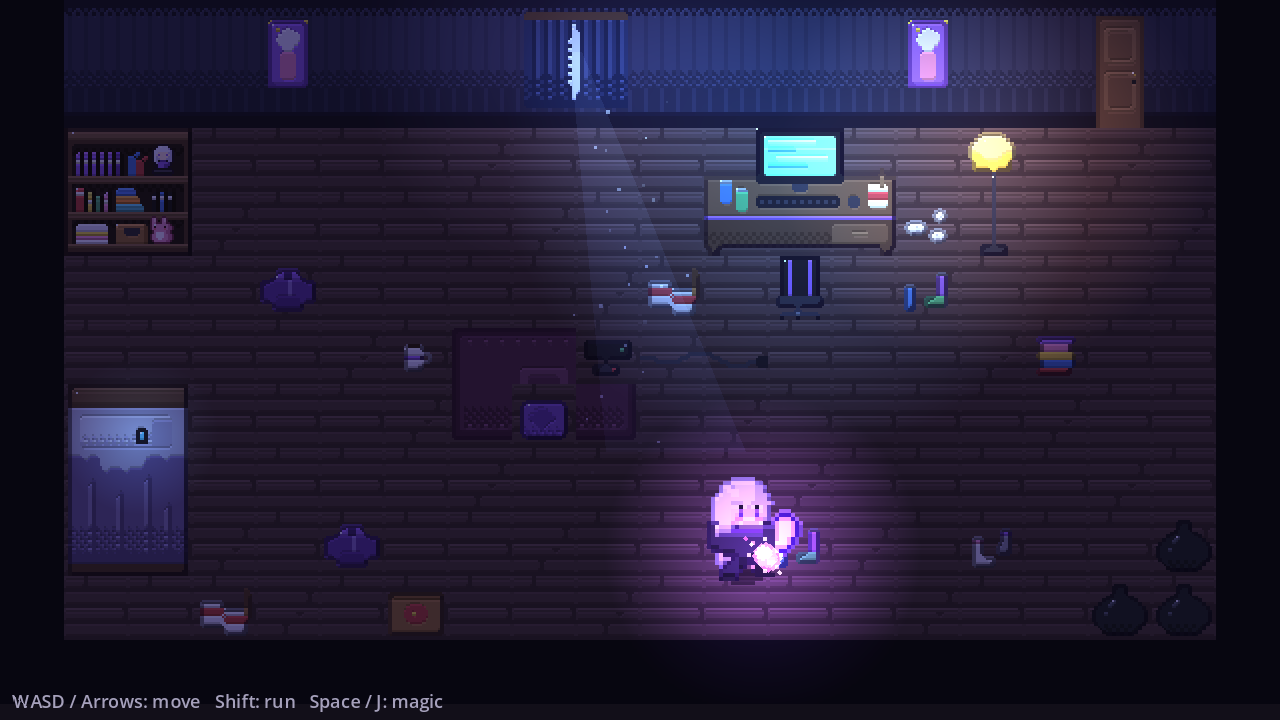
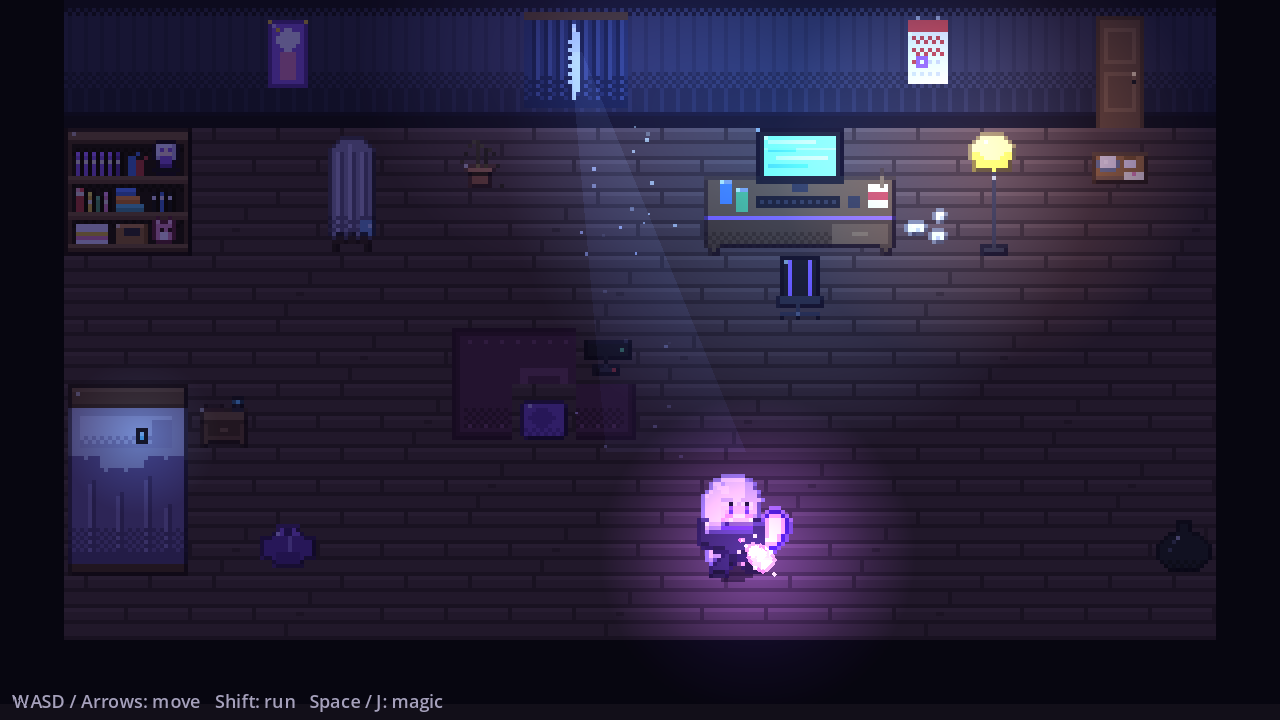
Documentazione: la stanza che racconta

diff --git a/stanza/README.md b/stanza/README.md
@@ -30,7 +30,10 @@ title/
 ├── title_backdrop.gd            raggio di luna (con le nuvole che passano) e pulviscolo
 ├── title_figure.gd              Lethe di spalle nel raggio (solo se ci sono i suoi sprite)
 ├── title_name.gd                il titolo col nome nascosto: ogni tanto di A-LETHE-IA resta solo LETHE
-└── title_menu.gd                il menu (Button veri: tastiera, gamepad, mouse), col suono del carillon
+├── title_menu.gd                il menu (Button veri: tastiera, gamepad, mouse): davanti alla voce
+│                                scelta batte un cuore, e cambiare voce suona il carillon
+└── art/                         finestra con tende e luna, pavimento, pannello del menu, cuore,
+                                 ornamento (dal generatore in locale: griglia a 16 px, blocchi 2x2)
 ui/fonts/                        Kenney Pixel (CC0)
 main.tscn / main.gd              stanza al buio (CanvasModulate) + protagonista + OST
 audio/stanza_theme.wav           l'OST della stanza: loop lo-fi di 25 s (dal generatore, senza stacchi)
@@ -72,12 +75,13 @@ tests/                           un file per modulo + mini runner headless
 - **Protagonista**: disegnata sulla griglia 32x32 della sagoma e ingrandita a blocchi 2x2,
   senza dettagli a mezzo pixel: ha la stessa grana del pavimento. Sotto i piedi ha un'ombra
   scura e semitrasparente.
-- **Stile dei tile**: pixel a blocchi (16 px raddoppiati con Scale2x) con
-  dettagli da 1 pixel: contorno colorato, luce e ombra sui bordi, riflessi, retinatura a scacchi.
+- **Stile dei tile**: come Lethe, una sola griglia a 16 px ingrandita a blocchi 2x2 (niente Scale2x
+  né dettagli a mezzo pixel): contorno colorato, tre toni per materiale, riflessi, retinatura a scacchi.
 - **Magia**: gli effetti usano il blend additivo (`CanvasItemMaterial` -> Add) per brillare.
-- **Disordine**: felpe e calzini per terra, cup noodle, lattine, cartone della pizza, palline di
-  carta accanto alla scrivania, una tazza, il cuscino schiacciato davanti alla console e il cavo
-  del controller che attraversa il pavimento.
+- **Una stanza che racconta**: niente doppioni, solo oggetti che sono uno strato della storia (vedi
+  il vault, "La stanza di Lethe"): lo specchio coperto da un lenzuolo, il calendario barrato fino a un
+  giorno cerchiato, il vassoio intatto davanti alla porta, la foto a faccia in giù sul comodino, le
+  palline di carta accanto alla scrivania, la pianta secca sotto la finestra.
 - **Profondità**: il livello dei mobili è ordinato per Y insieme alla protagonista, che passa
   davanti o dietro a seconda di dove sta.
 
